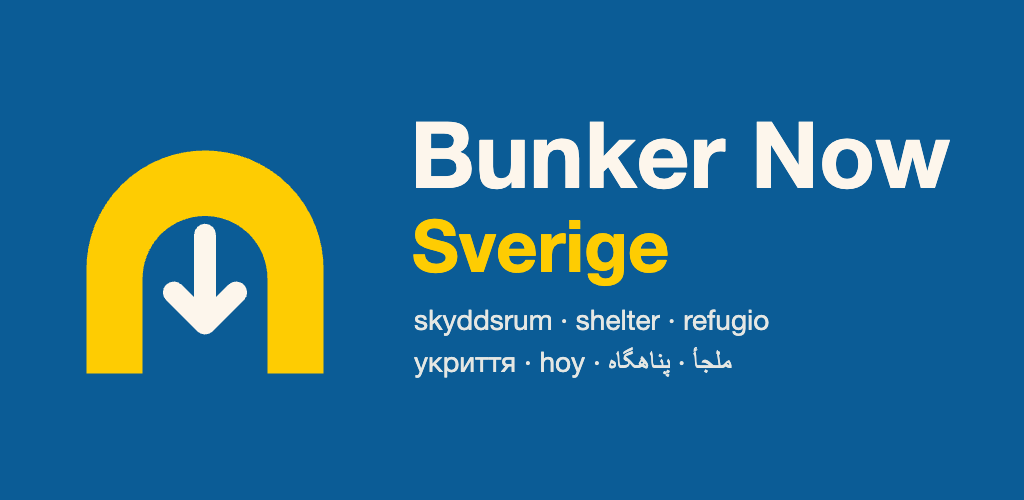
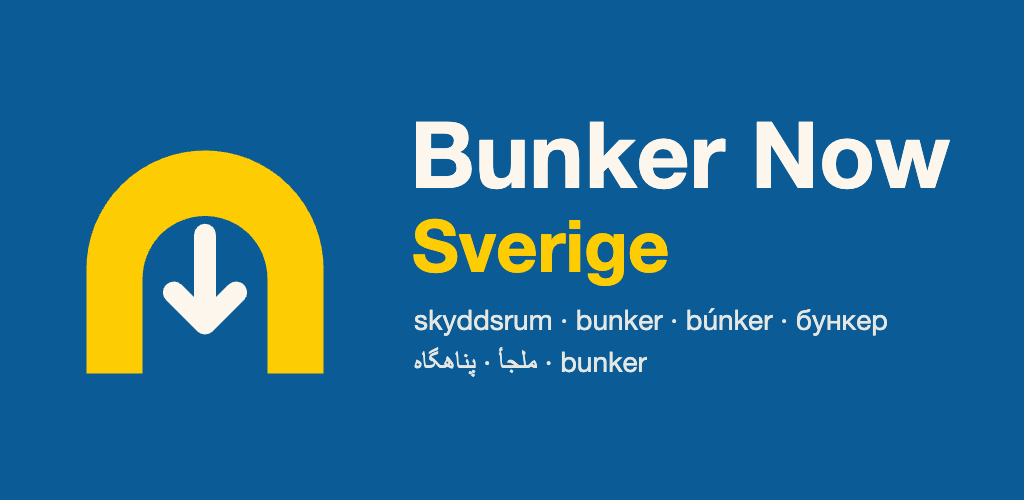
Say bunker, not shelter or refugio, in the graphic, the listing and the Spanish strings
Searching those words in images gives huts and homeless shelters; Sweden's
skyddsrum are bunkers. The feature graphic now reads skyddsrum · bunker ·
búnker · бункер, the English listing says bunker throughout (skyddsrum
kept as the Swedish term), and the Spanish UI says búnker everywhere.

Changed region(s): [[0.4062, 0.69, 0.7188, 0.75], [0.5625, 0.6, 0.875, 0.66]]

diff --git a/lib/i18n.js b/lib/i18n.js
@@ -120,22 +120,22 @@ export const UI = {
       "Data: Myndigheten för civilt försvar (Swedish Civil Defence and Resilience Agency). In a real emergency, follow krisinformation.se, Sveriges Radio P4 and 112.",
   },
   es: {
-    tagline: "Refugio más cercano + qué hacer, en tu idioma. Un toque.",
+    tagline: "Búnker más cercano + qué hacer, en tu idioma. Un toque.",
     languageLabel: "Idioma",
     emergencyButton: "EMERGENCIA",
-    emergencyWorking: "Buscando refugios…",
+    emergencyWorking: "Buscando búnkeres…",
     usingLocation: "Usando tu ubicación.",
     demoLocation: "Modo demo: mostrando Stockholm C.",
     gpsSlow: "Buscando señal GPS. Sin internet puede tardar hasta 30 segundos.",
-    nearest: "Refugio más cercano",
-    others: "Otros refugios cercanos",
+    nearest: "Búnker más cercano",
+    others: "Otros búnkeres cercanos",
     route: "Ruta",
     travelMode: "Modo de transporte",
     modes: { walk: "A pie", bike: "Bici", car: "Coche" },
     minBy: { walk: "min a pie", bike: "min en bici", car: "min en coche" },
     farTitle: "Protégete donde estás ahora.",
-    farBody: "No hay ningún refugio a menos de {min} minutos. Ve a un sótano o al centro del edificio, lejos de las ventanas.",
-    openNote: "Los refugios se abren en un plazo de 48 horas cuando el gobierno declara el estado de alerta elevada. Si suena la alarma antes, ve a un sótano o al centro del edificio.",
+    farBody: "No hay ningún búnker a menos de {min} minutos. Ve a un sótano o al centro del edificio, lejos de las ventanas.",
+    openNote: "Los búnkeres se abren en un plazo de 48 horas cuando el gobierno declara el estado de alerta elevada. Si suena la alarma antes, ve a un sótano o al centro del edificio.",
     alarmsTitle: "Conoce las alarmas",
     alarms: [
       { name: "Beredskapslarm (alerta elevada)", pattern: "30 s de señal, 15 s de pausa, durante 5 minutos", action: "Entra en un edificio y escucha Sveriges Radio P4." },
@@ -143,11 +143,11 @@ export const UI = {
     ],
     propertyLabel: "Inmueble",
     propertyRef: "inmueble {x}",
-    propertyHint: "Es el nombre del inmueble en el registro de refugios, no una dirección de calle. Usa Ruta para llegar.",
+    propertyHint: "Es el nombre del inmueble en el registro de búnkeres, no una dirección de calle. Usa Ruta para llegar.",
     streetLabel: "Dirección",
-    streetHint: "Dirección más cercana, según Lantmäteriet. El refugio está en un edificio del inmueble indicado abajo. Usa Ruta para llegar.",
+    streetHint: "Dirección más cercana, según Lantmäteriet. El búnker está en un edificio del inmueble indicado abajo. Usa Ruta para llegar.",
     sources: "Fuentes",
-    farNearest: "Solo si puedes llegar con seguridad: refugio más cercano",
+    farNearest: "Solo si puedes llegar con seguridad: búnker más cercano",
     places: "plazas",
     instructions: "Instrucciones",
     aiBadge: "Instrucciones de Claude",
@@ -364,7 +364,7 @@ export const PACK = {
   },
   es: {
     bring: ["Teléfono + cargador / batería externa", "Agua y comida para 3 días", "Tus medicinas", "Productos de higiene", "Documento de identidad / pasaporte", "Ropa abrigada y una manta"],
-    dontBring: ["Mascotas (no se permiten en los refugios)", "Maletas grandes", "Alcohol", "Armas o cuchillos", "Combustible, gas o cosas inflamables"],
+    dontBring: ["Mascotas (no se permiten en los búnkeres)", "Maletas grandes", "Alcohol", "Armas o cuchillos", "Combustible, gas o cosas inflamables"],
   },
   ar: {
     bring: ["الهاتف + الشاحن / بطارية خارجية", "ماء وطعام لمدة 3 أيام", "أدويتك", "مستلزمات النظافة الشخصية", "بطاقة الهوية / جواز السفر", "ملابس دافئة وبطانية"],
@@ -400,8 +400,8 @@ export const FAMILY_MESSAGE = {
       : `I'm safe. I'm here: ${here}. I'm going to the bunker: ${place} (map: ${routeUrl}). Time: ${time}.`,
   es: ({ place, time, routeUrl, here, far }) =>
     far
-      ? `Estoy a salvo. Me protejo donde estoy: ${here}. Refugio más cercano: ${place} (mapa: ${routeUrl}). Hora: ${time}.`
-      : `Estoy a salvo. Estoy aquí: ${here}. Voy al refugio: ${place} (mapa: ${routeUrl}). Hora: ${time}.`,
+      ? `Estoy a salvo. Me protejo donde estoy: ${here}. Búnker más cercano: ${place} (mapa: ${routeUrl}). Hora: ${time}.`
+      : `Estoy a salvo. Estoy aquí: ${here}. Voy al búnker: ${place} (mapa: ${routeUrl}). Hora: ${time}.`,
   ar: ({ place, time, routeUrl, here, far }) =>
     far
       ? `أنا بأمان. أحتمي حيث أنا: ${here}. أقرب ملجأ: ${place} (الخريطة: ${routeUrl}). الوقت: ${time}.`
@@ -467,16 +467,16 @@ const OFFLINE_STEPS = {
   },
   es: {
     near: (ctx, t) => [
-      `Mantén la calma. Ve ahora al refugio más cercano: ${ctx.address}, ${ctx.distanceText} (${ctx.minutes} ${t}).`,
+      `Mantén la calma. Ve ahora al búnker más cercano: ${ctx.address}, ${ctx.distanceText} (${ctx.minutes} ${t}).`,
       "Lleva: teléfono, cargador, agua y comida para 3 días, medicinas, documento de identidad, productos de higiene y ropa abrigada. Sin mascotas.",
-      "Los refugios se abren en 48 horas cuando se declara la alerta elevada. Si no está abierto o no puedes llegar, ve a un sótano o al centro del edificio, lejos de las ventanas.",
+      "Los búnkeres se abren en 48 horas cuando se declara la alerta elevada. Si no está abierto o no puedes llegar, ve a un sótano o al centro del edificio, lejos de las ventanas.",
       "Sigue la información oficial: Sveriges Radio P4 y krisinformation.se.",
       "Ayuda a niños, personas mayores y vecinos. Llama al 112 si alguien está herido.",
     ],
     far: (ctx, t, n) => [
-      `Mantén la calma. No hay ningún refugio a menos de ${n} minutos: protégete donde estás ahora.`,
+      `Mantén la calma. No hay ningún búnker a menos de ${n} minutos: protégete donde estás ahora.`,
       "Ve a un sótano o al centro del edificio, lejos de las ventanas.",
-      `Solo si es seguro desplazarte: refugio más cercano ${ctx.address}, ${ctx.distanceText} (${ctx.minutes} ${t}). Los refugios se abren en 48 horas cuando se declara la alerta elevada.`,
+      `Solo si es seguro desplazarte: búnker más cercano ${ctx.address}, ${ctx.distanceText} (${ctx.minutes} ${t}). Los búnkeres se abren en 48 horas cuando se declara la alerta elevada.`,
       "Sigue la información oficial: Sveriges Radio P4 y krisinformation.se.",
       "Ayuda a niños, personas mayores y vecinos. Llama al 112 si alguien está herido.",
     ],
@@ -650,8 +650,8 @@ export const COMPASS = {
     dirs: ["north", "northeast", "east", "southeast", "south", "southwest", "west", "northwest"],
   },
   es: {
-    title: "Dirección al refugio",
-    hint: "Sostén el móvil en horizontal. La flecha apunta al refugio.",
+    title: "Dirección al búnker",
+    hint: "Sostén el móvil en horizontal. La flecha apunta al búnker.",
     noSensor: "No se encontró brújula. La flecha indica la dirección respecto al norte (N).",
     enable: "Activar brújula",
     dirs: ["norte", "noreste", "este", "sureste", "sur", "suroeste", "oeste", "noroeste"],

diff --git a/design/play/listing.md b/design/play/listing.md
@@ -5,7 +5,7 @@ Limits: app name 30, short description 80, full description 4000 characters.
 ## Svenska (sv-SE), default language
 
 ### App name
-Bunker Now: närmaste skyddsrum
+Bunker Now Sverige
 
 ### Short description
 Närmaste skyddsrum och vad du ska göra, på ditt språk. Fungerar utan internet.
@@ -40,24 +40,24 @@ Data: Myndigheten för civilt försvar. Bunker Now är ett oberoende projekt och
 ## English (en-US)
 
 ### App name
-Bunker Now: nearest shelter
+Bunker Now Sverige
 
 ### Short description
-Nearest shelter in Sweden and what to do, in your language. Works offline.
+Nearest bunker in Sweden and what to do, in your language. Works offline.
 
 ### Full description
-Bunker Now shows the nearest of Sweden's 62,739 public shelters (skyddsrum) with one tap, how to get there and what to do, in your language.
+Bunker Now shows the nearest of Sweden's 62,739 public bunkers (skyddsrum) with one tap, how to get there and what to do, in your language.
 
 Around 2 million people in Sweden were born abroad. Many have never heard the word skyddsrum and don't know what the alarms mean. In a crisis, everyone should know what to do, whatever language they speak.
 
 WORKS WITHOUT INTERNET
-Every shelter is inside the app and your phone finds the nearest one itself. GPS needs no internet. Instructions are built in for every language.
+Every bunker is inside the app and your phone finds the nearest one itself. GPS needs no internet. Instructions are built in for every language.
 
 WHAT IT DOES
-• One EMERGENCY button finds the 3 nearest shelters.
+• One EMERGENCY button finds the 3 nearest bunkers.
 • Walking, cycling or driving: travel time for each.
-• Take cover first: if the nearest shelter is more than 5 minutes away, the app tells you to go to a basement or the middle of the building.
-• A compass with an arrow, distance and direction to the shelter, for when maps won't load.
+• Take cover first: if the nearest bunker is more than 5 minutes away, the app tells you to go to a basement or the middle of the building.
+• A compass with an arrow, distance and direction to the bunker, for when maps won't load.
 • Calm, numbered instructions. When online, Claude (AI) writes them from official MCF and Krisinformation guidance.
 • The alarms explained: beredskapslarm and flyglarm.
 • What to bring and what to leave.
@@ -65,7 +65,7 @@ WHAT IT DOES
 • 7 languages: Swedish, English, Spanish, Arabic, Persian, Ukrainian and Somali.
 
 HONEST ABOUT THE DATA
-Shelters open within 48 hours after the government declares heightened alert. The register names each shelter by its property designation (for example "Hägern Större 16"), not a street address. The app says both.
+Bunkers open within 48 hours after the government declares heightened alert. The register names each bunker by its property designation (for example "Hägern Större 16"), not a street address. The app says both.
 
 PRIVACY
 No accounts, no ads, no tracking. Your location is used on your phone.
